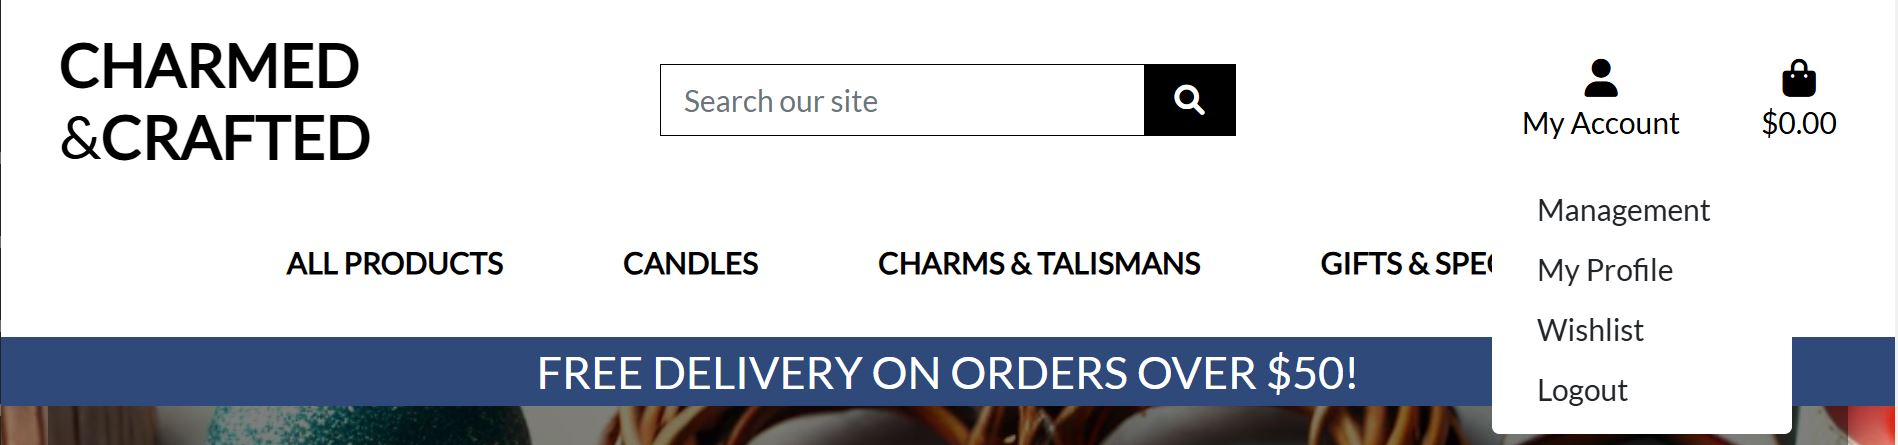
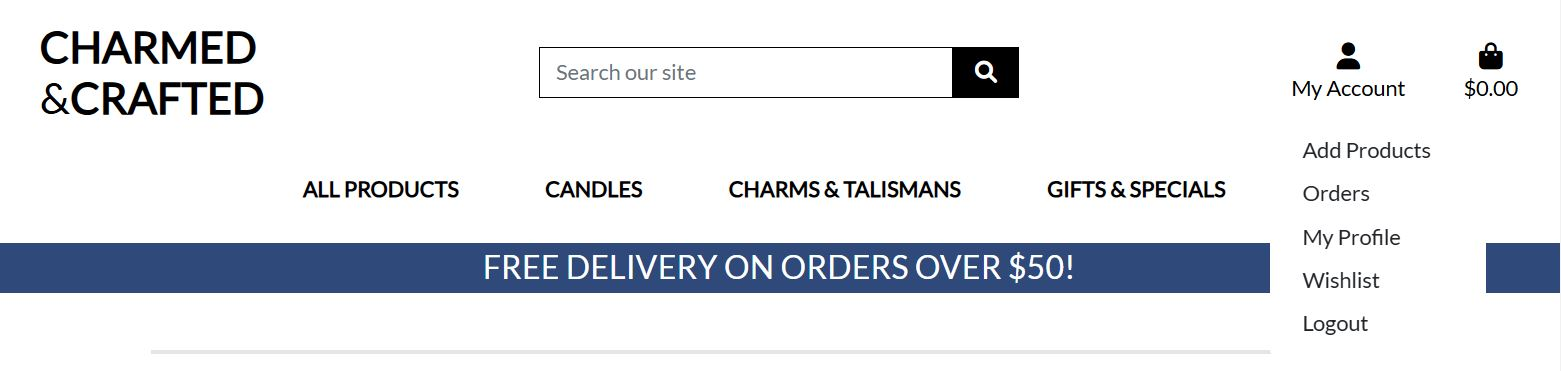
Add order test, and rewrite purpose

diff --git a/README.md b/README.md
@@ -15,15 +15,16 @@ Whether you're shopping for yourself or looking for the perfect gift, **Charmed 
 
 ### Purpose:
 
-This project serves as an educational resource, demonstrating the application of Python development skills in building a comprehensive, fully functional e-commerce platform. The project showcases how **Django** can be leveraged to create a scalable, interactive, and secure application, with a focus on user experience, data management, and thorough testing. 
+This project serves as an **educational resource**, showcasing **Full Stack development** skills in building a comprehensive, fully functional **e-commerce platform**. It demonstrates how **Django** can be effectively leveraged to create a **scalable**, **interactive**, and **secure application**, with a strong emphasis on **user experience**, **data management**, and **thorough testing**.
 
-The system includes features such as:
-- **Stripe Payments** for secure and reliable online transactions.
-- A robust e-commerce platform supporting product browsing, filtering, and detailed product views.
-- **AWS S3** for scalable and reliable storage of media and static files.
-- A responsive and visually appealing design using **Bootstrap**.
+### Key Features:
+- **Secure Payments**: Integrated **Stripe Payments** for reliable and secure online transactions.  
+- **Product Management**: Supports product browsing, advanced filtering, and detailed product views.  
+- **Scalable Storage**: Utilizes **AWS S3** for efficient storage of media and static files.  
+- **Responsive Design**: Achieved through **Bootstrap**, ensuring a visually appealing and mobile-friendly interface.  
 
-This project exemplifies how **Python**, **Django**, **Bootstrap**, **Stripe**, and **AWS** can be combined to build a fully functional, secure, and visually appealing web application, taking into account real-world considerations like payment integration, scalability, and performance.
+This project exemplifies the power of combining **Python**, **Django**, **Bootstrap**, **Stripe**, and **AWS** to build a **secure**, **scalable**, and **user-friendly** web application. It addresses real-world considerations like payment integration, storage reliability, performance, and overall scalability.
+
 
 
 ## Technical Design UX/UI
